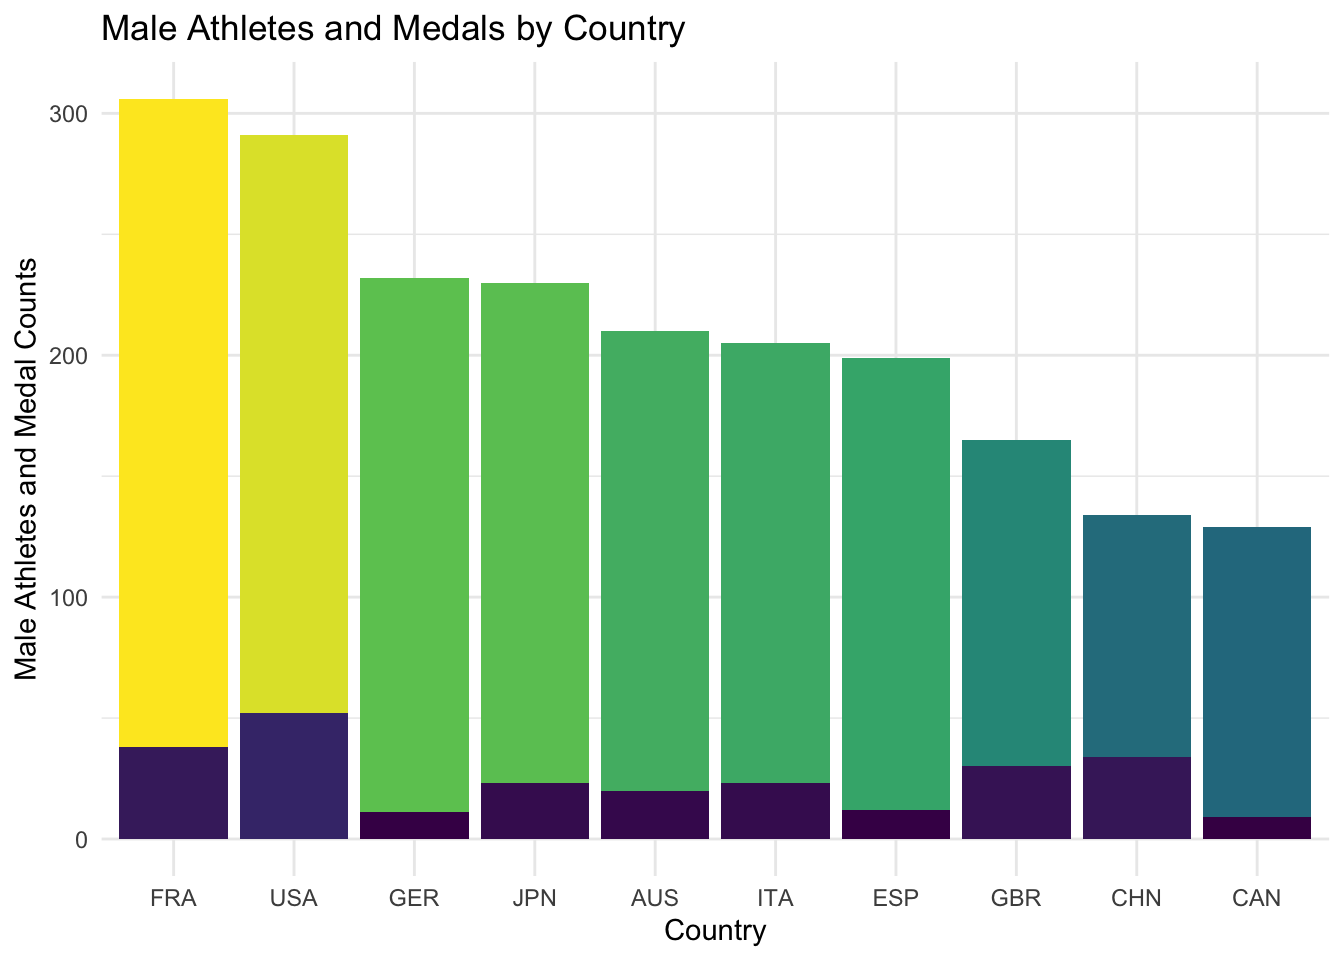
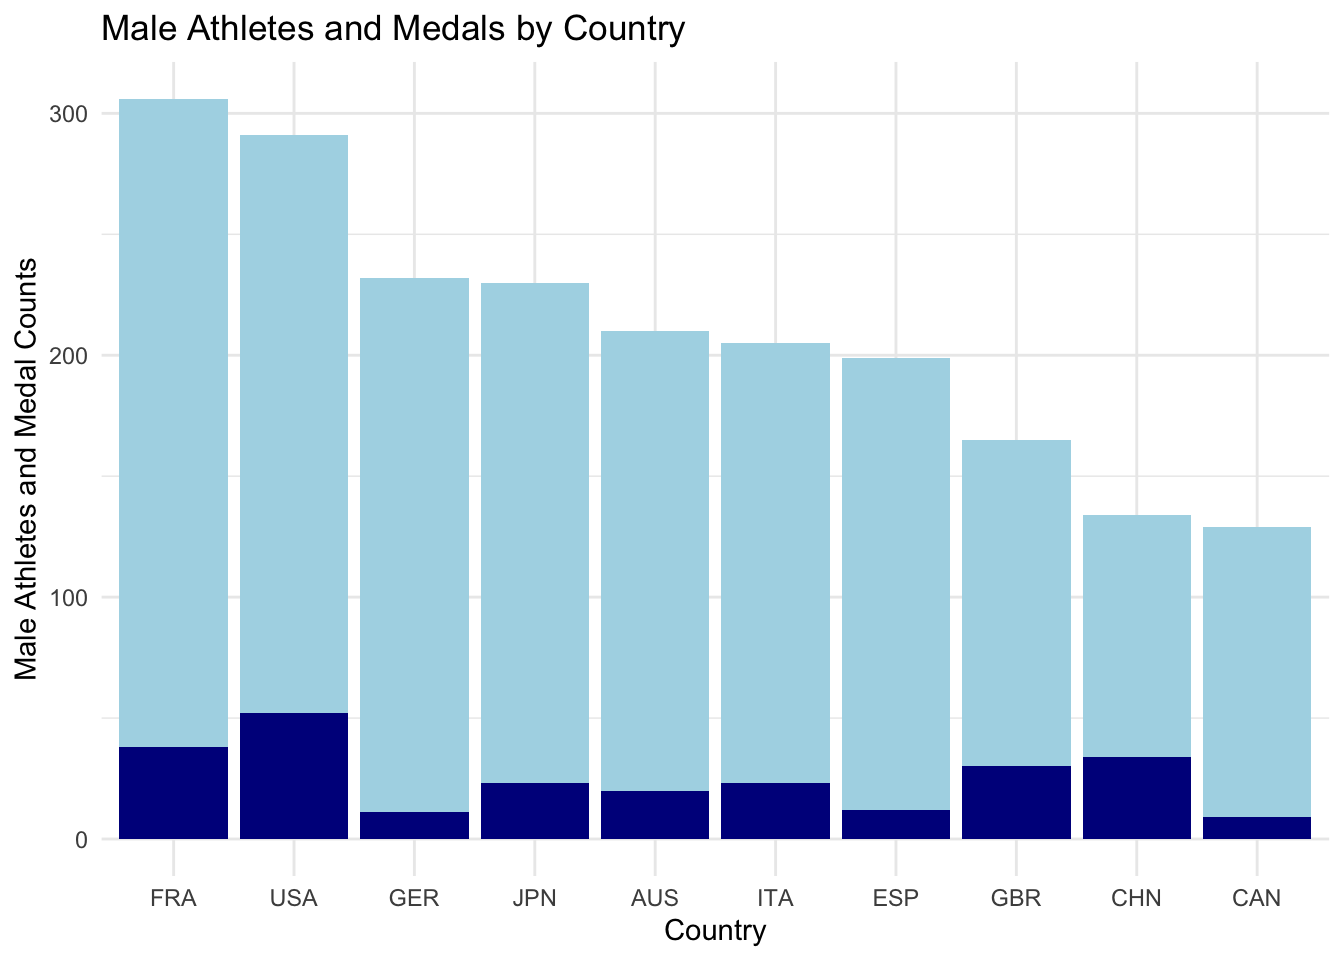
Half Week Olympic R Code Updated

diff --git a/Olympics_Project/Positron_R_Olympics_Project.html b/Olympics_Project/Positron_R_Olympics_Project.html
@@ -149,18 +149,15 @@ pre > code.sourceCode > span > a:first-child::before { text-decoration: underlin
 <span id="cb4-13"><a href="#cb4-13" aria-hidden="true" tabindex="-1"></a></span>
 <span id="cb4-14"><a href="#cb4-14" aria-hidden="true" tabindex="-1"></a><span class="co"># Create the plot:</span></span>
 <span id="cb4-15"><a href="#cb4-15" aria-hidden="true" tabindex="-1"></a>Male_Athletes_Count_barplot <span class="ot">&lt;-</span> <span class="fu">ggplot</span>(<span class="at">data =</span> Male_Athletes_Count) <span class="sc">+</span></span>
-<span id="cb4-16"><a href="#cb4-16" aria-hidden="true" tabindex="-1"></a>          <span class="fu">geom_bar</span>(<span class="fu">aes</span>(<span class="at">x =</span> <span class="fu">reorder</span>(country_code, <span class="sc">-</span>athlete_count), <span class="at">y =</span> athlete_count, </span>
-<span id="cb4-17"><a href="#cb4-17" aria-hidden="true" tabindex="-1"></a>              <span class="at">fill =</span> athlete_count), <span class="at">stat =</span> <span class="st">"identity"</span>) <span class="sc">+</span></span>
-<span id="cb4-18"><a href="#cb4-18" aria-hidden="true" tabindex="-1"></a>          <span class="fu">geom_bar</span>(<span class="fu">aes</span>(<span class="at">x =</span> <span class="fu">reorder</span>(country_code, <span class="sc">-</span>athlete_count), <span class="at">y =</span> medal_totals, </span>
-<span id="cb4-19"><a href="#cb4-19" aria-hidden="true" tabindex="-1"></a>              <span class="at">fill =</span> medal_totals), <span class="at">stat =</span> <span class="st">"identity"</span>) <span class="sc">+</span></span>
-<span id="cb4-20"><a href="#cb4-20" aria-hidden="true" tabindex="-1"></a>          <span class="fu">labs</span>(<span class="at">title =</span> <span class="st">"Male Athletes and Medals by Country"</span>,</span>
-<span id="cb4-21"><a href="#cb4-21" aria-hidden="true" tabindex="-1"></a>               <span class="at">x =</span> <span class="st">"Country"</span>,</span>
-<span id="cb4-22"><a href="#cb4-22" aria-hidden="true" tabindex="-1"></a>               <span class="at">y =</span> <span class="st">"Male Athletes and Medal Counts"</span>) <span class="sc">+</span></span>
-<span id="cb4-23"><a href="#cb4-23" aria-hidden="true" tabindex="-1"></a>          <span class="fu">theme_minimal</span>() <span class="sc">+</span></span>
-<span id="cb4-24"><a href="#cb4-24" aria-hidden="true" tabindex="-1"></a>          <span class="fu">scale_fill_viridis_c</span>() <span class="sc">+</span></span>
-<span id="cb4-25"><a href="#cb4-25" aria-hidden="true" tabindex="-1"></a>          <span class="fu">theme</span>(<span class="at">legend.position =</span> <span class="st">"none"</span>)</span>
-<span id="cb4-26"><a href="#cb4-26" aria-hidden="true" tabindex="-1"></a></span>
-<span id="cb4-27"><a href="#cb4-27" aria-hidden="true" tabindex="-1"></a><span class="fu">print</span>(Male_Athletes_Count_barplot)</span></code><button title="Copy to Clipboard" class="code-copy-button"><i class="bi"></i></button></pre></div>
+<span id="cb4-16"><a href="#cb4-16" aria-hidden="true" tabindex="-1"></a>          <span class="fu">geom_bar</span>(<span class="fu">aes</span>(<span class="at">x =</span> <span class="fu">reorder</span>(country_code, <span class="sc">-</span>athlete_count), <span class="at">y =</span> athlete_count), <span class="at">fill =</span> <span class="st">"lightblue"</span>, <span class="at">stat =</span> <span class="st">"identity"</span>) <span class="sc">+</span></span>
+<span id="cb4-17"><a href="#cb4-17" aria-hidden="true" tabindex="-1"></a>          <span class="fu">geom_bar</span>(<span class="fu">aes</span>(<span class="at">x =</span> <span class="fu">reorder</span>(country_code, <span class="sc">-</span>athlete_count), <span class="at">y =</span> medal_totals), <span class="at">fill =</span> <span class="st">"darkblue"</span>, <span class="at">stat =</span> <span class="st">"identity"</span>) <span class="sc">+</span></span>
+<span id="cb4-18"><a href="#cb4-18" aria-hidden="true" tabindex="-1"></a>          <span class="fu">labs</span>(<span class="at">title =</span> <span class="st">"Male Athletes and Medals by Country"</span>,</span>
+<span id="cb4-19"><a href="#cb4-19" aria-hidden="true" tabindex="-1"></a>               <span class="at">x =</span> <span class="st">"Country"</span>,</span>
+<span id="cb4-20"><a href="#cb4-20" aria-hidden="true" tabindex="-1"></a>               <span class="at">y =</span> <span class="st">"Male Athletes and Medal Counts"</span>) <span class="sc">+</span></span>
+<span id="cb4-21"><a href="#cb4-21" aria-hidden="true" tabindex="-1"></a>          <span class="fu">theme_minimal</span>() <span class="sc">+</span></span>
+<span id="cb4-22"><a href="#cb4-22" aria-hidden="true" tabindex="-1"></a>          <span class="fu">theme</span>(<span class="at">legend.position =</span> <span class="st">"none"</span>)</span>
+<span id="cb4-23"><a href="#cb4-23" aria-hidden="true" tabindex="-1"></a></span>
+<span id="cb4-24"><a href="#cb4-24" aria-hidden="true" tabindex="-1"></a><span class="fu">print</span>(Male_Athletes_Count_barplot)</span></code><button title="Copy to Clipboard" class="code-copy-button"><i class="bi"></i></button></pre></div>
 <div class="cell-output-display">
 <div>
 <figure class="figure">
@@ -187,18 +184,16 @@ pre > code.sourceCode > span > a:first-child::before { text-decoration: underlin
 <span id="cb5-13"><a href="#cb5-13" aria-hidden="true" tabindex="-1"></a></span>
 <span id="cb5-14"><a href="#cb5-14" aria-hidden="true" tabindex="-1"></a><span class="co"># Create the plot:</span></span>
 <span id="cb5-15"><a href="#cb5-15" aria-hidden="true" tabindex="-1"></a>Female_Athletes_Count_barplot <span class="ot">&lt;-</span> <span class="fu">ggplot</span>(<span class="at">data =</span> Female_Athletes_Count) <span class="sc">+</span></span>
-<span id="cb5-16"><a href="#cb5-16" aria-hidden="true" tabindex="-1"></a>          <span class="fu">geom_bar</span>(<span class="fu">aes</span>(<span class="at">x =</span> <span class="fu">reorder</span>(country_code, <span class="sc">-</span>athlete_count), <span class="at">y =</span> athlete_count, </span>
-<span id="cb5-17"><a href="#cb5-17" aria-hidden="true" tabindex="-1"></a>              <span class="at">fill =</span> athlete_count), <span class="at">stat =</span> <span class="st">"identity"</span>) <span class="sc">+</span></span>
-<span id="cb5-18"><a href="#cb5-18" aria-hidden="true" tabindex="-1"></a>          <span class="fu">geom_bar</span>(<span class="fu">aes</span>(<span class="at">x =</span> <span class="fu">reorder</span>(country_code, <span class="sc">-</span>athlete_count), <span class="at">y =</span> medal_totals, </span>
-<span id="cb5-19"><a href="#cb5-19" aria-hidden="true" tabindex="-1"></a>              <span class="at">fill =</span> medal_totals), <span class="at">stat =</span> <span class="st">"identity"</span>) <span class="sc">+</span></span>
-<span id="cb5-20"><a href="#cb5-20" aria-hidden="true" tabindex="-1"></a>          <span class="fu">labs</span>(<span class="at">title =</span> <span class="st">"Female Athletes and Medals by Country"</span>,</span>
-<span id="cb5-21"><a href="#cb5-21" aria-hidden="true" tabindex="-1"></a>               <span class="at">x =</span> <span class="st">"Country"</span>,</span>
-<span id="cb5-22"><a href="#cb5-22" aria-hidden="true" tabindex="-1"></a>               <span class="at">y =</span> <span class="st">"Female Athletes and Medal Counts"</span>) <span class="sc">+</span></span>
-<span id="cb5-23"><a href="#cb5-23" aria-hidden="true" tabindex="-1"></a>          <span class="fu">theme_minimal</span>() <span class="sc">+</span></span>
-<span id="cb5-24"><a href="#cb5-24" aria-hidden="true" tabindex="-1"></a>          <span class="fu">scale_fill_viridis_c</span>() <span class="sc">+</span></span>
-<span id="cb5-25"><a href="#cb5-25" aria-hidden="true" tabindex="-1"></a>          <span class="fu">theme</span>(<span class="at">legend.position =</span> <span class="st">"none"</span>)</span>
-<span id="cb5-26"><a href="#cb5-26" aria-hidden="true" tabindex="-1"></a></span>
-<span id="cb5-27"><a href="#cb5-27" aria-hidden="true" tabindex="-1"></a><span class="fu">print</span>(Female_Athletes_Count_barplot)</span></code><button title="Copy to Clipboard" class="code-copy-button"><i class="bi"></i></button></pre></div>
+<span id="cb5-16"><a href="#cb5-16" aria-hidden="true" tabindex="-1"></a>          <span class="fu">geom_bar</span>(<span class="fu">aes</span>(<span class="at">x =</span> <span class="fu">reorder</span>(country_code, <span class="sc">-</span>athlete_count), <span class="at">y =</span> athlete_count), <span class="at">fill =</span> <span class="st">"lightblue"</span>, <span class="at">stat =</span> <span class="st">"identity"</span>) <span class="sc">+</span></span>
+<span id="cb5-17"><a href="#cb5-17" aria-hidden="true" tabindex="-1"></a>          <span class="fu">geom_bar</span>(<span class="fu">aes</span>(<span class="at">x =</span> <span class="fu">reorder</span>(country_code, <span class="sc">-</span>athlete_count), <span class="at">y =</span> medal_totals), <span class="at">fill =</span> <span class="st">"darkblue"</span>, <span class="at">stat =</span> <span class="st">"identity"</span>) <span class="sc">+</span></span>
+<span id="cb5-18"><a href="#cb5-18" aria-hidden="true" tabindex="-1"></a>          <span class="fu">labs</span>(<span class="at">title =</span> <span class="st">"Female Athletes and Medals by Country"</span>,</span>
+<span id="cb5-19"><a href="#cb5-19" aria-hidden="true" tabindex="-1"></a>               <span class="at">x =</span> <span class="st">"Country"</span>,</span>
+<span id="cb5-20"><a href="#cb5-20" aria-hidden="true" tabindex="-1"></a>               <span class="at">y =</span> <span class="st">"Female Athletes and Medal Counts"</span>) <span class="sc">+</span></span>
+<span id="cb5-21"><a href="#cb5-21" aria-hidden="true" tabindex="-1"></a>          <span class="fu">theme_minimal</span>() <span class="sc">+</span></span>
+<span id="cb5-22"><a href="#cb5-22" aria-hidden="true" tabindex="-1"></a>          <span class="fu">scale_fill_viridis_c</span>() <span class="sc">+</span></span>
+<span id="cb5-23"><a href="#cb5-23" aria-hidden="true" tabindex="-1"></a>          <span class="fu">theme</span>(<span class="at">legend.position =</span> <span class="st">"none"</span>)</span>
+<span id="cb5-24"><a href="#cb5-24" aria-hidden="true" tabindex="-1"></a></span>
+<span id="cb5-25"><a href="#cb5-25" aria-hidden="true" tabindex="-1"></a><span class="fu">print</span>(Female_Athletes_Count_barplot)</span></code><button title="Copy to Clipboard" class="code-copy-button"><i class="bi"></i></button></pre></div>
 <div class="cell-output-display">
 <div>
 <figure class="figure">
@@ -357,6 +352,8 @@ pre > code.sourceCode > span > a:first-child::before { text-decoration: underlin
 </div>
 <p>The USA women clearly received far more medals than any other country’s women’s teams did. They were especially dominant in swimming, with China and Australia being the only other countries who even came close, and a big drop off after them.</p>
 <p>An overall takeaway from the heatmaps is that the countries that tend to get the most overall medals tend to get some medals from almost every sport, and tend to do especially well in swimming and athletics, where there are the most medals up for grabs.</p>
+<p><strong>Now, Create Heatmaps that color based on proportion of medals won in each sport:</strong></p>
+<p><strong>Male Medal Proportion Heatmap:</strong></p>
 
 </main>
 <!-- /main column -->
